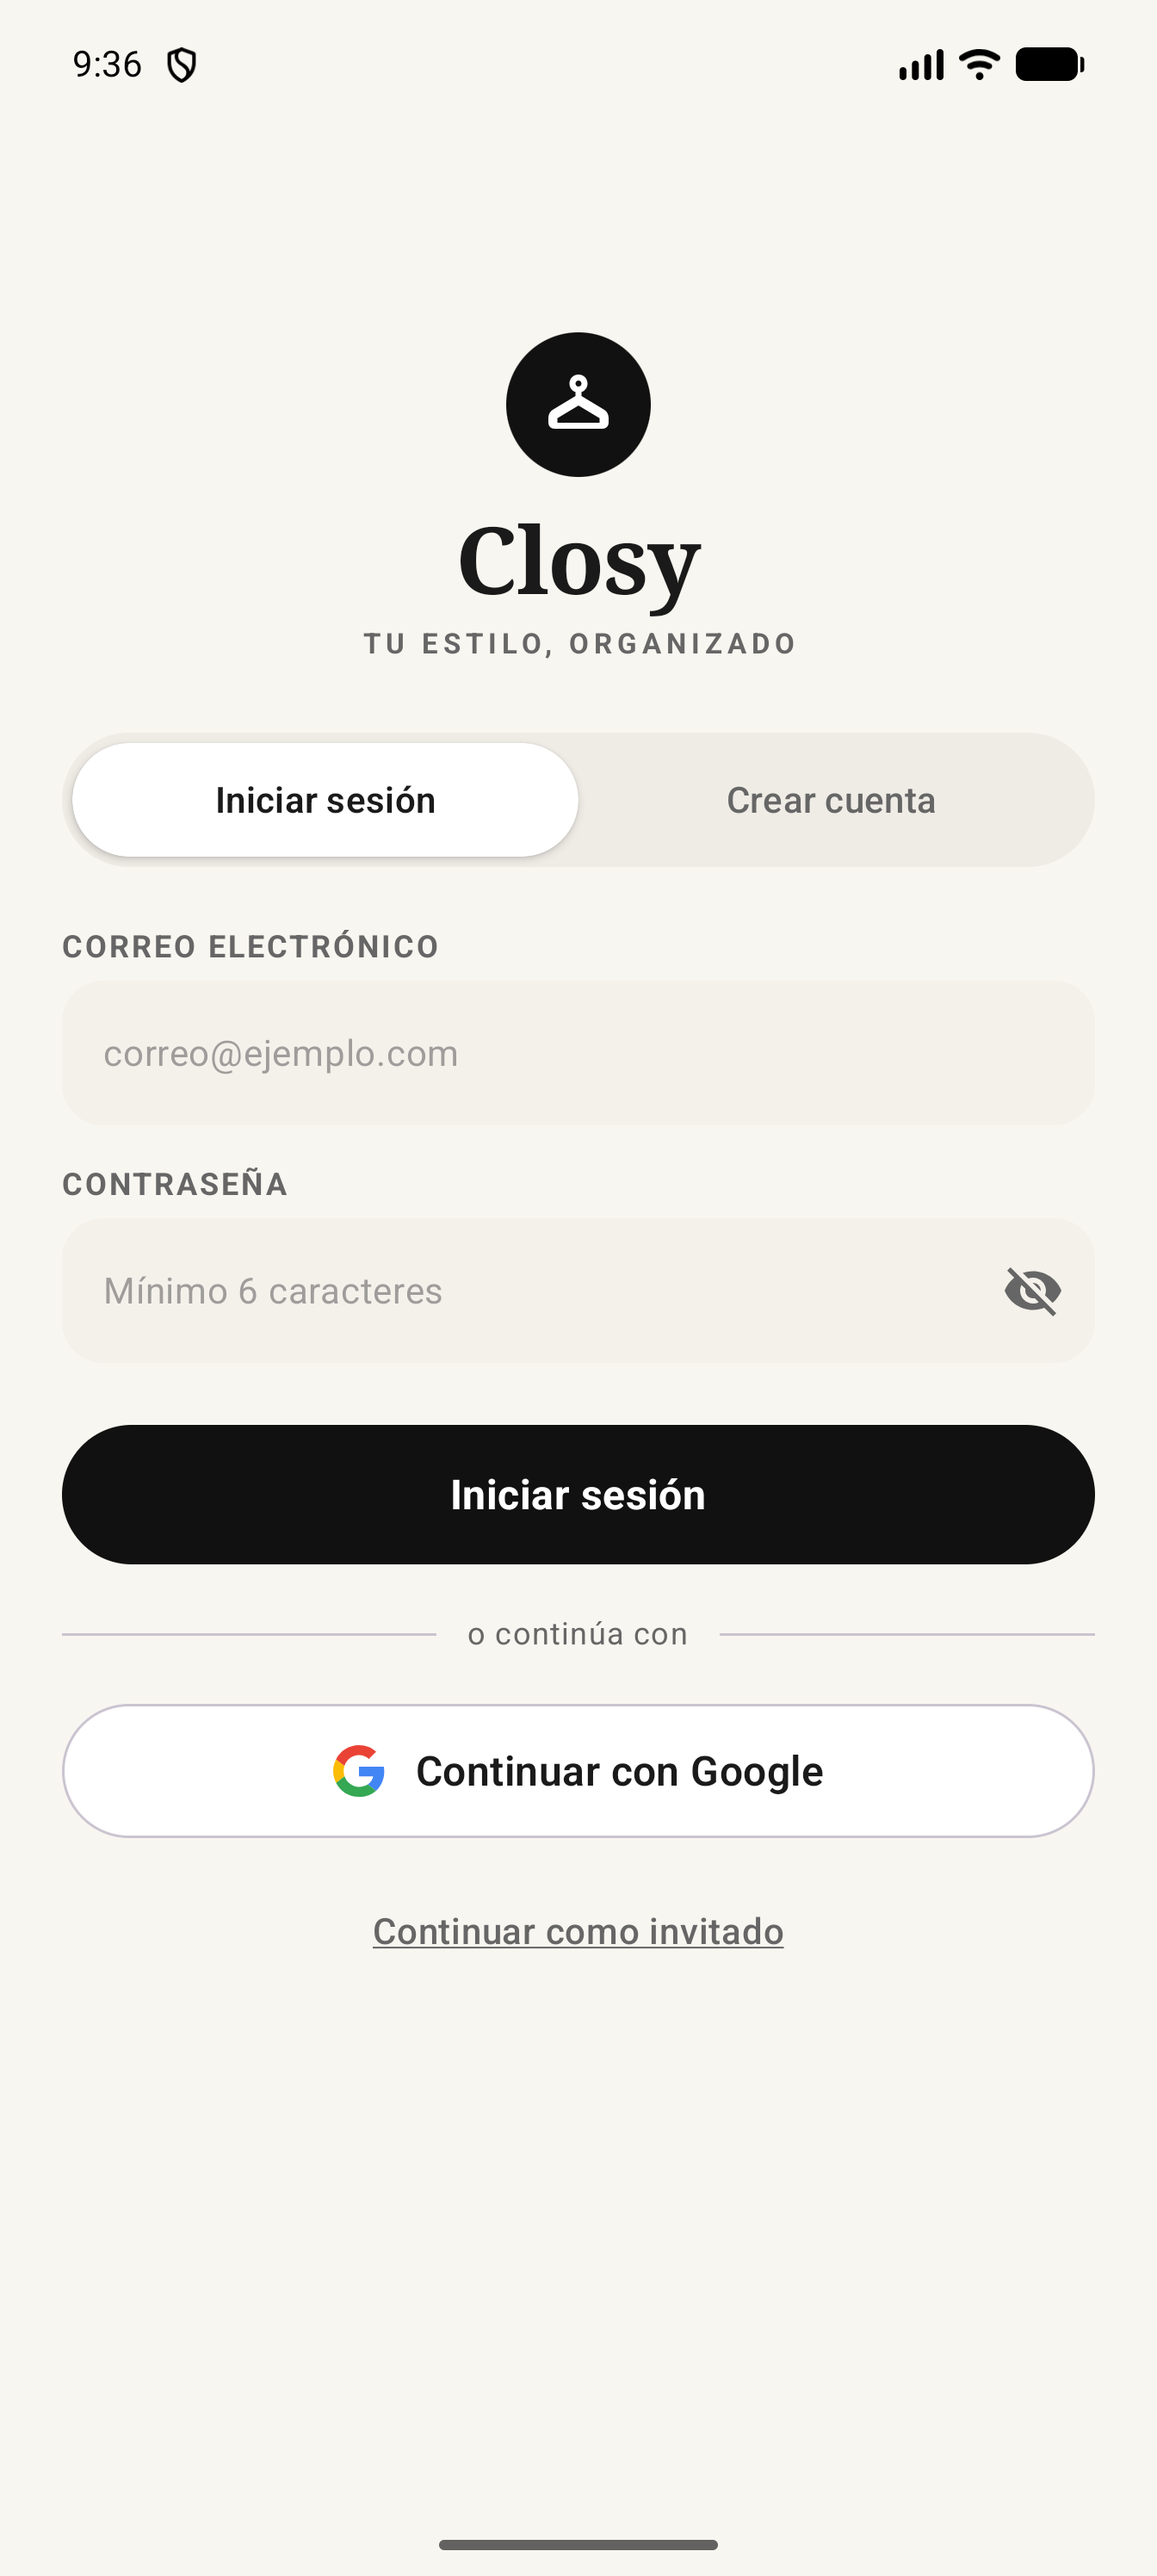
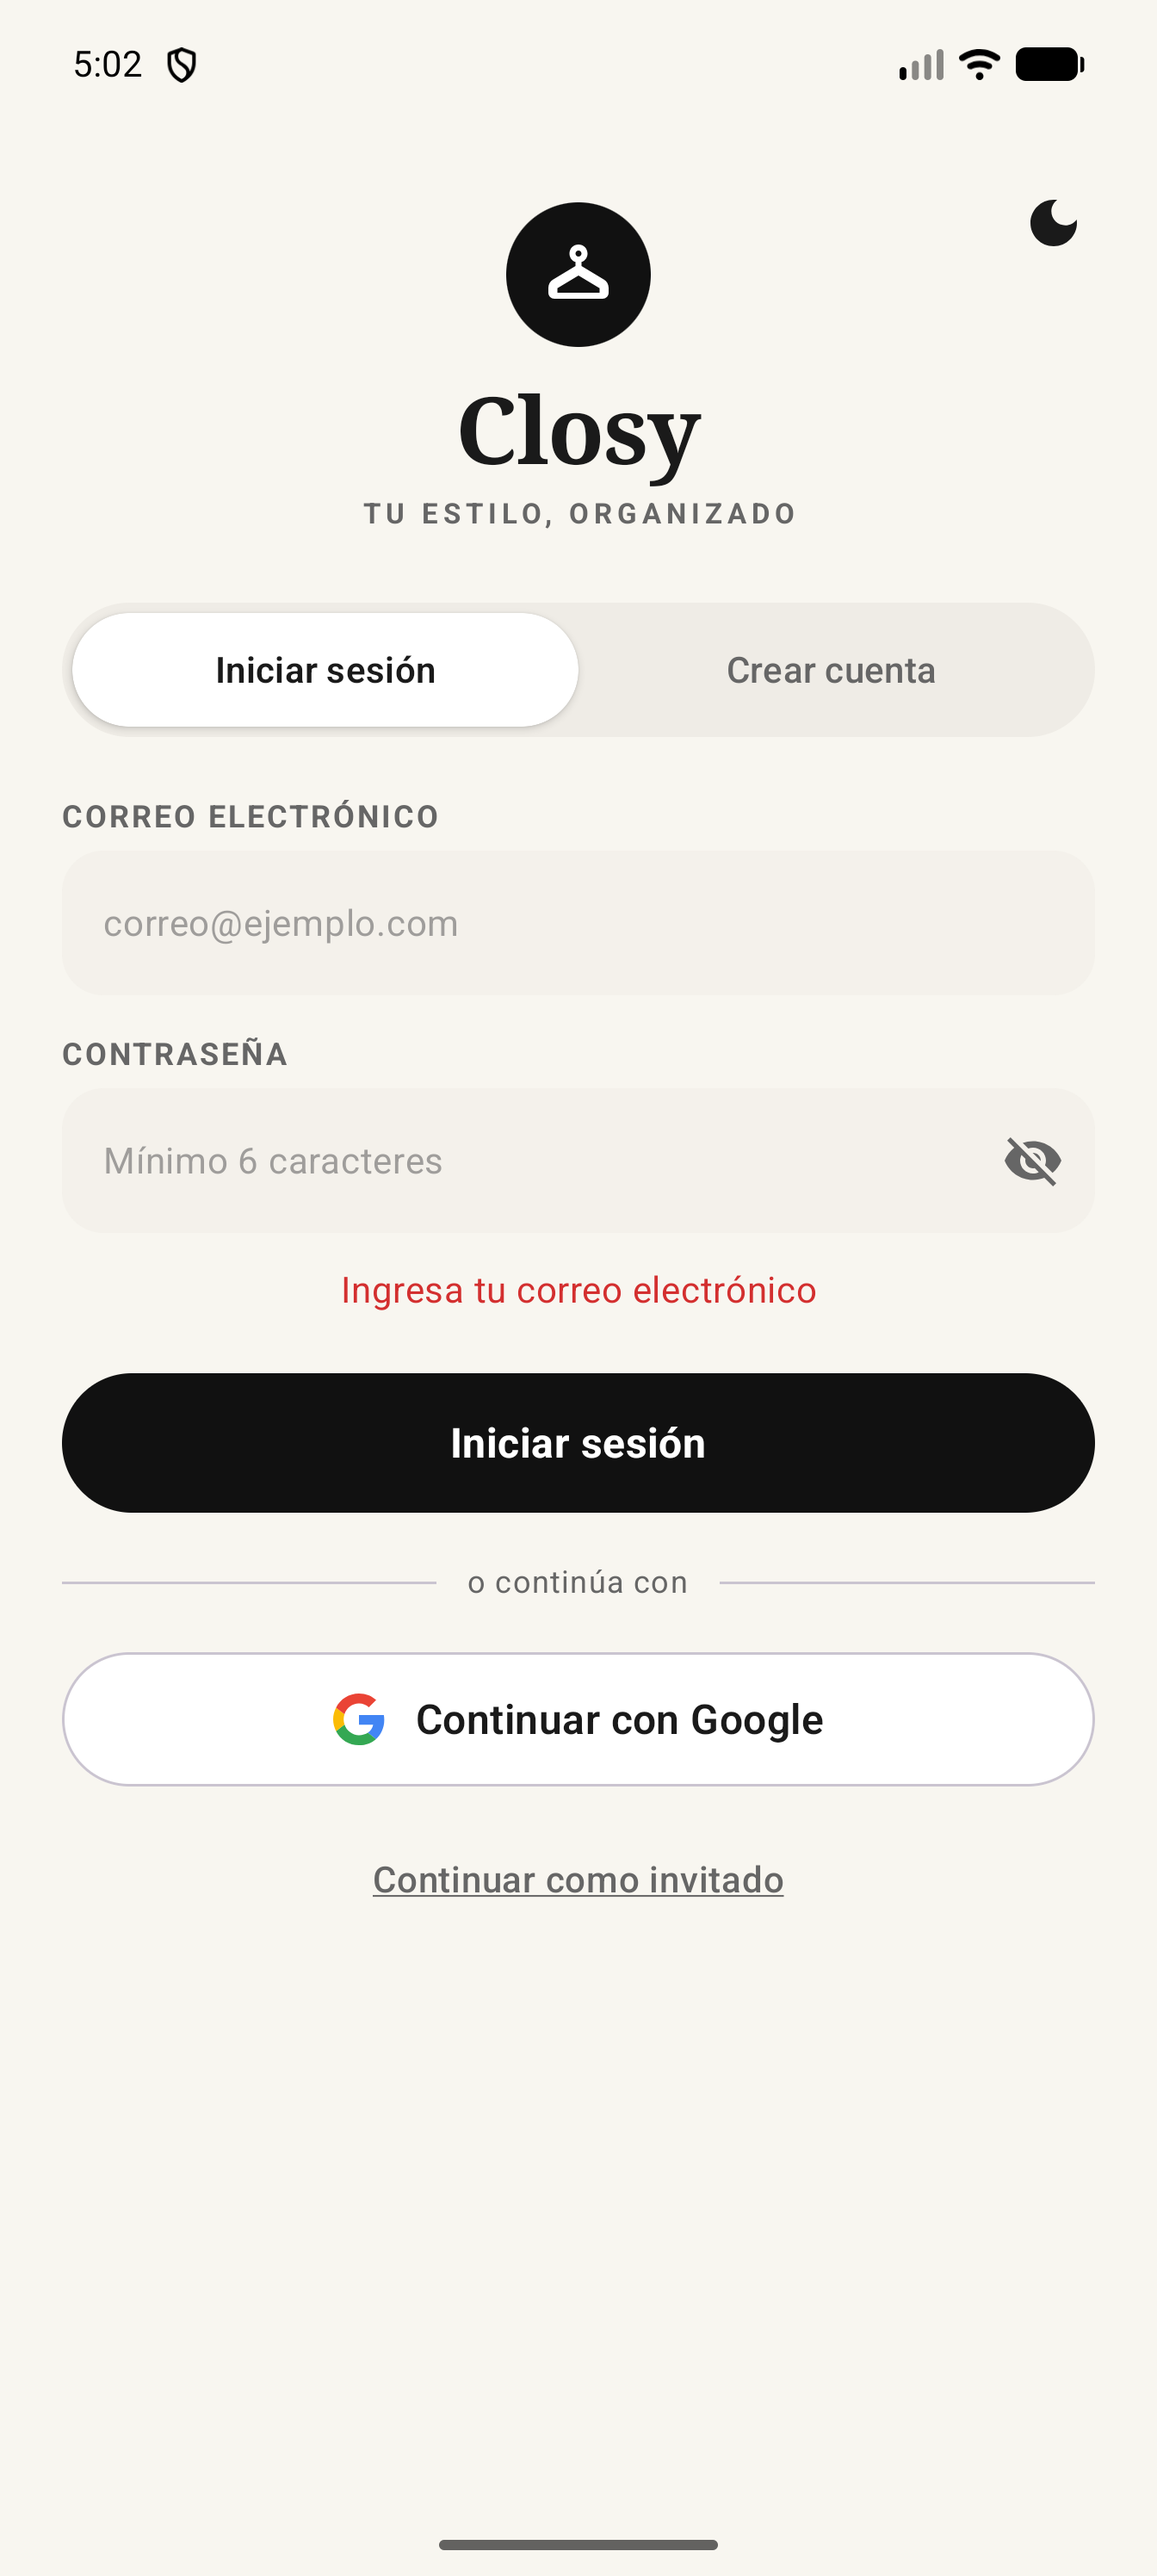
App Closy

diff --git a/README.md b/README.md
@@ -45,24 +45,32 @@ A continuación se detalla el flujo principal de la aplicación con la estructur
 
 | Flujo de Autenticación y Personalización | Flujo de Feed Principal y Detalle |
 | :---: | :---: |
-| <img src="docs/gifs/auth_flow.gif" width="320" alt="Flujo de Autenticación y Personalización" /><br/><sub>**Autenticación & Selección de Estilo**<br/>Conmutación de pestañas, ingreso como invitado y personalización de experiencia.</sub> | <img src="docs/gifs/home_feed_flow.gif" width="320" alt="Flujo de Feed Principal y Detalle" /><br/><sub>**Feed Interactivo & Ficha de Outfit**<br/>Filtrado dinámico por categorías y desglose de prendas en ModalBottomSheet.</sub> |
+| <img src="docs/gifs/auth_flow.gif" width="320" alt="Flujo de Autenticación y Personalización" /><br/><sub>**Autenticación & Selección de Estilo**<br/>Conmutación de pestañas, validaciones, ingreso como invitado y personalización de experiencia.</sub> | <img src="docs/gifs/home_feed_flow.gif" width="320" alt="Flujo de Feed Principal y Detalle" /><br/><sub>**Feed Interactivo & Navegación**<br/>Navegación entre pestañas, gestión de favoritos, vista del closet y detalle de prenda en ModalBottomSheet.</sub> |
 
 ### Flujo de Experiencia de Usuario (Capturas Reales)
 
 | 1. Autenticación | 2. Personalización de Estilo |
 | :---: | :---: |
-| <img src="docs/screenshots/01_auth_screen.png" width="300" alt="Pantalla de Autenticación" /><br/><sub>**Iniciar Sesión / Crear Cuenta**<br/>Pestañas segmentadas con soporte para inicio con Google y persistencia de sesión local.</sub> | <img src="docs/screenshots/02_personalization_screen.png" width="300" alt="Personalización de Estilo" /><br/><sub>**Personaliza tu Experiencia**<br/>Selección interactiva de género (Hombre, Mujer, Sin género) con tarjetas ampliadas e imágenes miniatura.</sub> |
+| <img src="docs/screenshots/01_auth_screen.png" width="300" alt="Pantalla de Autenticación" /><br/><sub>**Iniciar Sesión / Crear Cuenta**<br/>Pestañas segmentadas con soporte para inicio con Google, validaciones RFC y manejo de errores.</sub> | <img src="docs/screenshots/02_personalization_screen.png" width="300" alt="Personalización de Estilo" /><br/><sub>**Personaliza tu Experiencia**<br/>Selección interactiva de preferencia de estilo (Hombre, Mujer, Sin género) con tarjetas de 120dp.</sub> |
 
-| 3. Feed de Outfits (Para Ti) | 4. Outfits Guardados & Filtros |
+| 3. Feed de Outfits (Para Ti) | 4. Pestaña Favoritos & Diálogo |
 | :---: | :---: |
-| <img src="docs/screenshots/03_home_feed.png" width="300" alt="Feed Principal de Outfits" /><br/><sub>**Recomendaciones Estilo Pinterest**<br/>Navegación tipo "Para Ti" vs "Favoritos", animación horizontal, chips de filtros y confirmación de eliminación.</sub> | <img src="docs/screenshots/04_saved_outfits.png" width="300" alt="Outfits Guardados" /><br/><sub>**Guardados Aislados por Usuario**<br/>Vista de outfits marcados como favoritos vinculados de forma exclusiva al usuario activo.</sub> |
+| <img src="docs/screenshots/03_home_feed.png" width="300" alt="Feed Principal de Outfits" /><br/><sub>**Recomendaciones Estilo Pinterest**<br/>Tarjetas estilizadas con insignias de origen, número de prendas coincidentes y chips de filtros.</sub> | <img src="docs/screenshots/04_favoritos_screen.png" width="300" alt="Favoritos y Confirmación" /><br/><sub>**Confirmación de Eliminación**<br/>Pestaña de favoritos aislada por usuario con cuadro de diálogo de confirmación para desmarcar.</sub> |
 
-| 5. Ficha de Prendas (Bottom Sheet) | 6. Notificaciones Flotantes Ovaladas |
+| 5. Closet Virtual (13 Prendas) | 6. Detalle de Prenda (Bottom Sheet) |
 | :---: | :---: |
-| <img src="docs/screenshots/05_garment_sheet.png" width="300" alt="Desglose de Prendas" /><br/><sub>**Detalle de Outfits e Integración con Pinterest**<br/>Hoja modal inferior (`ModalBottomSheet`) con desglose de ropa y botón directo a Pinterest.</sub> | <img src="docs/screenshots/06_oval_notification.png" width="300" alt="Notificación Flotante" /><br/><sub>**Top Floating Notification**<br/>Banner flotante superior en forma de píldora ovalada con desvanecimiento automático a los 2 segundos.</sub> |
+| <img src="docs/screenshots/05_closet_screen.png" width="300" alt="Closet Virtual" /><br/><sub>**Gestión de Closet**<br/>Cuadrícula interactiva con 13 prendas semilla precargadas, contador dinámico y filtros por categoría.</sub> | <img src="docs/screenshots/06_garment_sheet.png" width="300" alt="Detalle de Prenda" /><br/><sub>**Ficha Modal Inferior**<br/>Hoja modal inferior (`ModalBottomSheet`) con imagen ampliada, categoría, subcategoría, color y estado.</sub> |
+
+| 7. Generador de Combinaciones | 8. Perfil de Usuario (Modo Oscuro) |
+| :---: | :---: |
+| <img src="docs/screenshots/07_generar_tab.png" width="300" alt="Generador de Outfits" /><br/><sub>**Motor de Combinaciones**<br/>Selección de múltiples etiquetas de estilo para la generación inteligente de outfits.</sub> | <img src="docs/screenshots/08_profile_screen.png" width="300" alt="Perfil de Usuario" /><br/><sub>**Panel de Perfil & Tema Oscuro**<br/>Contadores en tiempo real, selección de preferencias, conmutador de Modo Oscuro y cierre de sesión.</sub> |
+
+| 9. Notificación Flotante Ovalada | 10. Diálogo de Salida (BackHandler) |
+| :---: | :---: |
+| <img src="docs/screenshots/09_oval_notification.png" width="300" alt="Notificación Ovalada Flotante" /><br/><sub>**Top Floating Banner**<br/>Píldora flotante superior en tono oscuro con animación fluida y temporizador de 2 segundos.</sub> | <img src="docs/screenshots/10_back_dialog.png" width="300" alt="Diálogo de Salida" /><br/><sub>**Intercepción de Retroceso**<br/>Manejo mediante `BackHandler` con cuadro de diálogo de confirmación antes de salir.</sub> |
 
 > [!NOTE]
-> *Las capturas de pantalla reales están ubicadas en `docs/screenshots/` y las demostraciones animadas en `docs/gifs/`.*
+> *Todas las capturas de pantalla reales están ubicadas en `docs/screenshots/` y las demostraciones animadas en `docs/gifs/`.*
 
 ---
 
